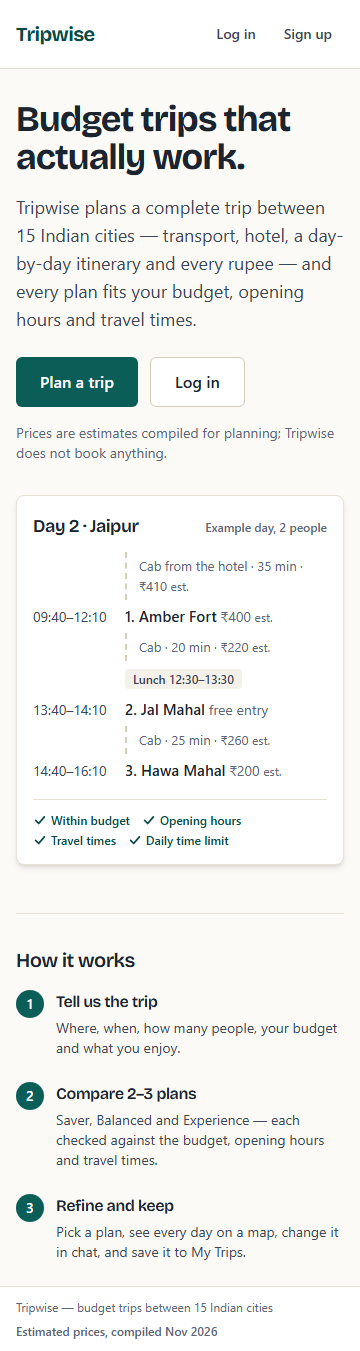
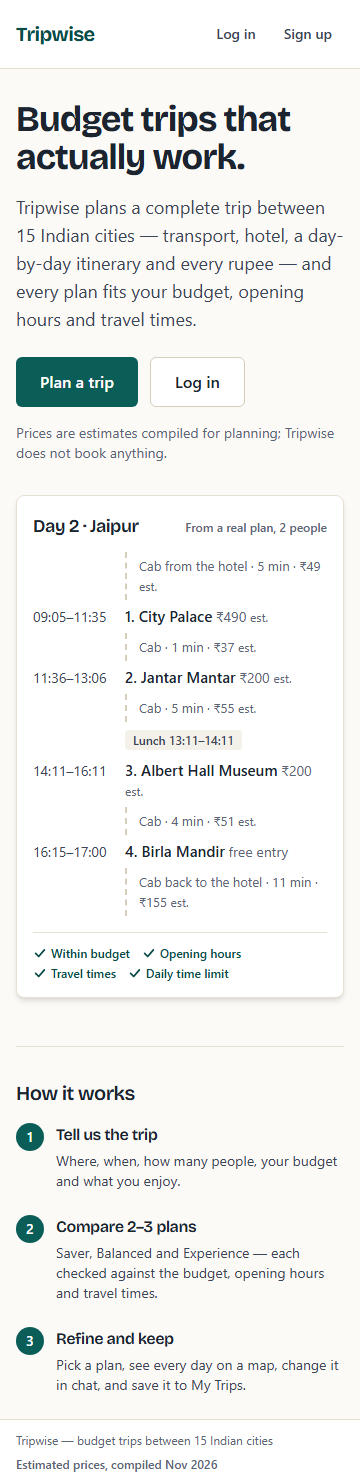
feat(006): F5 Landing example day generated from a real engine plan; drift test [UI-FR-07, FR-010]

diff --git a/frontend/src/pages/Landing.tsx b/frontend/src/pages/Landing.tsx
@@ -2,7 +2,9 @@ import { Link } from "react-router-dom";
 import { useAuth } from "../auth/AuthContext";
 import { CheckList } from "../components/VariantCard";
 import { Price } from "../components/ui";
+import { inr } from "../lib/format";
 import { useDocumentTitle } from "../lib/title";
+import example from "./landing-example.json";
 
 const STEPS = [
   { title: "Tell us the trip", text: "Where, when, how many people, your budget and what you enjoy." },
@@ -10,30 +12,24 @@ const STEPS = [
   { title: "Refine and keep", text: "Pick a plan, see every day on a map, change it in chat, and save it to My Trips." },
 ];
 
-// An illustration of what a planned day looks like (Jaipur attractions, real opening hours, entry fees for two).
-const EXAMPLE = [
-  { leg: "Cab from the hotel · 35 min", cost: 410 },
-  { time: "09:40–12:10", name: "Amber Fort", fee: 400 },
-  { leg: "Cab · 20 min", cost: 220 },
-  { lunch: "Lunch 12:30–13:30" },
-  { time: "13:40–14:10", name: "Jal Mahal", fee: 0 },
-  { leg: "Cab · 25 min", cost: 260 },
-  { time: "14:40–16:10", name: "Hawa Mahal", fee: 200 },
-] as const;
+// Day 2 of a real engine plan (DEL→JAI, 2 people), generated by eval/make_landing_example.py from the curated data;
+// backend/tests/test_landing_example.py fails if it drifts from what the engine produces.
+type Row = { leg: string; cost: number } | { lunch: string } | { time: string; name: string; fee: number };
+const EXAMPLE = example as { title: string; people: number; rows: Row[] };
 
 function ExampleDay() {
   let n = 0;
   return (
     <figure className="card shadow-md" aria-labelledby="example-day">
       <figcaption id="example-day" className="flex flex-wrap items-baseline justify-between gap-2">
-        <span className="font-display text-lg font-semibold tracking-tight">Day 2 · Jaipur</span>
-        <span className="text-xs font-medium text-ink-500">Example day, 2 people</span>
+        <span className="font-display text-lg font-semibold tracking-tight">{EXAMPLE.title}</span>
+        <span className="text-xs font-medium text-ink-500">From a real plan, {EXAMPLE.people} people</span>
       </figcaption>
       <ol className="mt-3 space-y-1 text-sm">
-        {EXAMPLE.map((r, i) => {
+        {EXAMPLE.rows.map((r, i) => {
           if ("leg" in r) return (
             <li key={i} className="ml-[5.75rem] border-l-2 border-dashed border-sand-300 py-1 pl-3 text-[13px] text-ink-500">
-              {r.leg} · <Price className="num">₹{r.cost}</Price>
+              {r.leg} · <Price className="num">{inr(r.cost)}</Price>
             </li>
           );
           if ("lunch" in r) return (
@@ -46,7 +42,7 @@ function ExampleDay() {
             <li key={i} className="grid grid-cols-[5rem,1fr] gap-x-3 py-0.5">
               <span className="num pt-px text-ink-700">{r.time}</span>
               <span><span className="text-[15px] font-semibold">{n}. {r.name}</span>{" "}
-                <span className="text-ink-500">{r.fee ? <Price className="num">₹{r.fee}</Price> : "free entry"}</span></span>
+                <span className="text-ink-500">{r.fee ? <Price className="num">{inr(r.fee)}</Price> : "free entry"}</span></span>
             </li>
           );
         })}

diff --git a/eval/make_landing_example.py b/eval/make_landing_example.py
@@ -1,0 +1,53 @@
+"""The Landing page's example day, taken from a real engine plan so no number on the page is made up.
+
+    python eval/make_landing_example.py      # writes frontend/src/pages/landing-example.json
+
+Request: Delhi to Jaipur, 2 people, 3 days, balanced pace, mid comfort, history and culture first. The example is
+day 2 of the engine's single plan: real stop times, entry fees for 2 (data/curated JAI fees) and ride costs and
+minutes from the city matrix. backend/tests/test_landing_example.py fails if the file drifts from the engine.
+"""
+
+from __future__ import annotations
+
+import json
+import sys
+from pathlib import Path
+
+ROOT = Path(__file__).resolve().parents[1]
+sys.path.insert(0, str(ROOT / "backend"))
+
+from tripwise import engine  # noqa: E402
+from tripwise.models import Plan, TripRequest  # noqa: E402
+
+OUT = ROOT / "frontend" / "src" / "pages" / "landing-example.json"
+REQUEST = {"origin": "DEL", "destination": "JAI", "start_date": "2026-12-14", "end_date": "2026-12-16", "people": 2,
+           "budget_total": 40000,
+           "prefs": {"daily_hours_out": 9, "pace": "balanced", "comfort": "mid", "avoid_crowds": False, "modes": {},
+                     "interests": {"nature": 1, "adventure": 0, "food": 2, "history": 5, "culture": 4, "spiritual": 1,
+                                   "shopping": 1, "relaxation": 1, "nightlife": 0}},
+           "locks": [], "excludes": []}
+DAY = 2
+
+
+def example() -> dict:
+    p = engine.plan(TripRequest.model_validate(REQUEST))
+    assert isinstance(p, Plan), p
+    d = next(d for d in p.days if d.day == DAY)
+    rows = []
+    for i, s in enumerate(d.stops):
+        leg = s.leg_from_prev
+        rows.append({"leg": f"{leg.mode.capitalize()}{' from the hotel' if i == 0 else ''} · {leg.minutes} min", "cost": leg.cost})
+        if d.lunch and s.start >= d.lunch[1] and (i == 0 or d.stops[i - 1].end <= d.lunch[0]):
+            rows.append({"lunch": f"Lunch {d.lunch[0]}–{d.lunch[1]}"})
+        rows.append({"time": f"{s.start}–{s.end}", "name": s.name, "fee": s.entry_cost})
+    if d.return_leg:
+        rows.append({"leg": f"{d.return_leg.mode.capitalize()} back to the hotel · {d.return_leg.minutes} min", "cost": d.return_leg.cost})
+    if d.lunch and not any("lunch" in r for r in rows):
+        rows.append({"lunch": f"Lunch {d.lunch[0]}–{d.lunch[1]}"})
+    city = "Jaipur"
+    return {"title": f"Day {DAY} · {city}", "people": REQUEST["people"], "rows": rows}
+
+
+if __name__ == "__main__":
+    OUT.write_text(json.dumps(example(), indent=1, ensure_ascii=False) + "\n", encoding="utf-8", newline="\n")
+    print(OUT.read_text(encoding="utf-8"))

diff --git a/backend/tests/test_landing_example.py b/backend/tests/test_landing_example.py
@@ -1,0 +1,15 @@
+"""The Landing page's example day must be exactly what the engine plans from the curated data (no made-up numbers)."""
+
+import json
+import sys
+from pathlib import Path
+
+ROOT = Path(__file__).resolve().parents[2]
+sys.path.insert(0, str(ROOT / "eval"))
+
+import make_landing_example  # noqa: E402
+
+
+def test_landing_example_matches_the_engine():
+    shipped = json.loads(make_landing_example.OUT.read_text(encoding="utf-8"))
+    assert shipped == make_landing_example.example(), "re-run: python eval/make_landing_example.py"

diff --git a/SPEC.md b/SPEC.md
@@ -2204,3 +2204,4 @@ Run 2026-10-25 with Playwright 1.64.0 (Chromium) against the local API (schema `
 | 2026-10-26 | C 002 §7.7, ENG-FR-13 | New fill step after exact costing (owner decision): unchosen candidates in descending v(a), cheapest fitting position in any day, kept if the exact cost stays within B_u and the objective improves (single plan and Experience: any value gain; Balanced: ΔV − λ·V*·Δcost/B_u > 0; Saver: none); `fill_ms: 300` in config; validation renumbered 7.8. Result on the 30 trips: Tripwise mean value 684.7 → 729.5, greedy wins 8 → 6 of 26, ENG-AT-08 p95 559 ms, VAR-AT-03 p95 1,761 ms | 008 T01 finding: greedy beat the engine on 8 of 26 trips because nothing used the room left after routing |
 | 2026-10-26 | C 002 §7.4 (fix) | Stage 2: when every lock and pin is mandatory and the first-solution heuristic finds no route, routing is retried with locks as very expensive drops (`LOCK_PENALTY` 10⁷), so other stops make room; a lock still left out is reported as before | Found while testing the fill step: pinning Jagat Shiromani Temple to day 3 or 4 of a 4-day Jaipur trip gave `pin_impossible` although it fits |
 | 2026-10-26 | C 002 (fill decision) | Experience and the single plan keep a fill addition only when plan value rises (not "anything that fits" literally): with the travel penalty an addition can lower value, and a zero-interest stop adds nothing | Keeps the fill consistent with the max-value objective |
+| 2026-10-26 | C 006 (F5 follow-up) | The Landing example day is now day 2 of a real engine plan (DEL→JAI, 2 people), generated from the curated data by `eval/make_landing_example.py` into `frontend/src/pages/landing-example.json`; `backend/tests/test_landing_example.py` fails if it drifts from the engine; caption "From a real plan, 2 people" | Owner: no number on the page may be made up (the F5 version used illustrative ride costs) |
